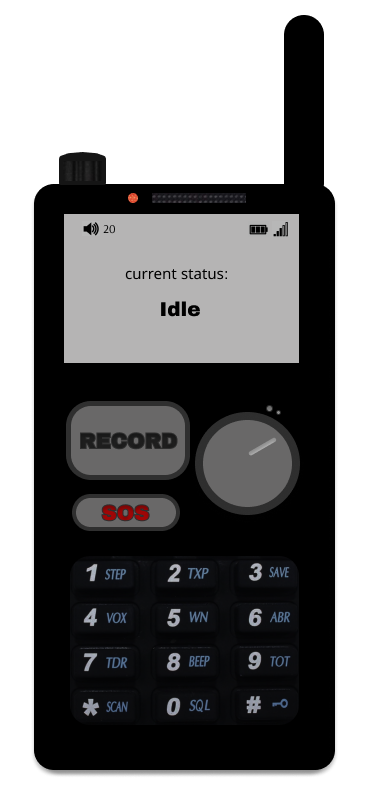
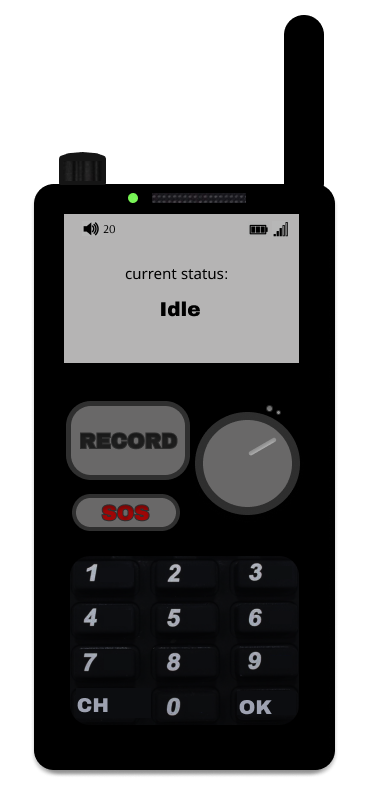
GUI

diff --git a/GUI_component.py b/GUI_component.py
@@ -22,16 +22,25 @@ class GUI:
     def recording(self):
         self.driver.send('start', 'recorder_stm')
         print("Start recording")
+        self.isRecording = True
+        self.app.setImage("show", "img/recording.png")
+        self.app.setImageMap("show", self.click, self.coords)
 
     def stop_recording(self):
         self.driver.send('stop', 'recorder_stm')
         print("Stop recording")
+        self.app.setImage("show", "img/idle2.png")
+        self.isRecording = False
+        self.app.setImageMap("show", self.click, self.coords)
 
     def recording_emg(self):
         self.driver.send('emg_msg', 'recorder_stm')
         self.driver.send('emg_msg', 'playback_stm')
         self.driver.send('start', 'recorder_emg_stm')
         print("Start emergency recording")
+        self.emgMode = True
+        self.app.setImage("show", "img/ssos.png")
+        self.app.setImageMap("show", self.click, self.coords)
 
     # TODO: different triggers for start/stop emg msg, as double clicking one of them leads to undesired behaviour
     def stop_recording_emg(self):
@@ -39,6 +48,9 @@ class GUI:
         self.driver.send('emg_msg', 'playback_stm')
         self.driver.send('stop', 'recorder_emg_stm')
         print("Stop recording emergency")
+        self.emgMode = False
+        self.app.setImage("show", "img/idle2.png")
+        self.app.setImageMap("show", self.click, self.coords)
 
     def change_channel(self, channel):
         newChannel = open("audio_files/channel.txt", "w")
@@ -50,6 +62,9 @@ class GUI:
         self.app = gui()
         self.channel_number = open("audio_files/channel.txt", "r").readline()
         self.channelEdit = False
+        self.isRecording = False
+        self.emgMode = False
+        self.isPlaying = False
         self.coords = {
             "Record": [76, 404, 188, 483],
             "SOS": [79, 496, 178, 533],
@@ -65,44 +80,36 @@ class GUI:
             "8": [158, 652, 224, 684],
             "9": [241, 652, 301, 684],
             "0": [158, 702, 224, 726],
-            "+": [83, 702, 138, 726],
+            "change channel": [83, 702, 138, 726],
             "done": [241, 702, 301, 726]
         }
         self.app.addImage("show", "img/idle.png", 0, 0)
         self.app.setImageMap("show", self.click, self.coords)
 
         self.app.addLabel("l1", "<click on the device>")
-        self.app.addLabel("channel", "" + str(50) + "")
 
         self.driver = stmpy.Driver()
         self.driver.start(keep_active=True)
         self.create_driver()
 
     def click(self, area):
-        self.app.setLabel("l1", area)
+        self.app.setLabel("l1", "Latest area clicked: " + area)
         if area == "SOS":
-            print("SOS click")
-            self.recording_emg()
-            self.app.setImage("show", "img/ssos.png")
-            self.app.setImageMap("show", self.click, self.coords)
-        if area == "Record":
-            self.recording()
-            self.app.setImage("show", "img/recording.png")
-            self.app.setImageMap("show", self.click, self.coords)
-        if area == "channel":
-            # self.app.setImage("show", "/Users/cecilie/Desktop/ntnu/Frame 2.png")
-            self.app.setImageMap("show", self.click, self.coords)
-            print("NOT IN USE: channel??")
+            if not self.emgMode:
+                self.recording_emg()
+                print("SOS click")
+            else:
+                self.stop_recording_emg()
+
+        if area == "Record" and not self.emgMode:
+            if not self.isRecording:
+                self.recording()
+            else:
+                self.stop_recording()
         if area == None:
             self.app.setImage('show', "img/idle2.png")
             self.app.setImageMap("show", self.click, self.coords)
-        """for k in ["0","1","2","3","4","5","6","7","8","9"]:
-            if area == k:
-                self.a = area
-                self.app.setLabel("channelnow", "Channel: " + self.a)
-                self.change_channel()
-                break"""
-        if area == "+":
+        if area == "change channel" and not self.emgMode:
             self.channelEdit = True
         k = ["0", "1", "2", "3", "4", "5", "6", "7", "8", "9"]
         if self.channelEdit:
@@ -117,29 +124,11 @@ class GUI:
 
     def create_gui(self):
 
-        self.app.setFont(14)
-        #self.app.startLabelFrame('Starting walkie talkie/ Home screen:')
-        #self.app.addButton('Record message', self.recording)
-        #self.app.addButton('Emergency', None)
-        # self.app.stopLabelFrame()
-
-        # The "not click" ones are not in use, but removing them leads to a weird UI
-        # which I do not intend to fix atm
-        self.app.startLabelFrame('Releasing buttons:', 0,1)
-        self.app.addButton('Do not click1', None)
-        self.app.addLabelEntry("Do not click/write", None)
-        self.app.addButton('Do not click2', None)
-        self.app.addButton('Release record', self.stop_recording)
+        self.app.setFont(16)
+        self.app.startLabelFrame('Info:', 0,2)
         self.app.addButton('Release emg record', self.stop_recording_emg)
-        self.app.addButton('Do not click4', None)
-        self.app.addButton('Do not click5', None)
-        self.app.stopLabelFrame()
-
-        self.app.startLabelFrame('Display:',0,2)
         self.app.addLabel("channelnow", "Current channel: " + self.channel_number)
         self.channel_number = ""
-        #self.app.addLabel('Current Status: Listening', None)
-        #self.app.addLabel('Current Volume: 15', None)
         self.app.stopLabelFrame()
 
         self.app.go()

diff --git a/state_machines/record_emg_logic.py b/state_machines/record_emg_logic.py
@@ -13,7 +13,7 @@ class RecorderEmergency:
     def __init__(self):
         self.start(broker, port)
         self.recording = False
-        # self.emg_mode = False
+        #self.emg_mode = False
         self.chunk = 1024  # Record in chunks of 1024 samples
         self.sample_format = pyaudio.paInt16  # 16 bits per sample
         self.channels = 1
